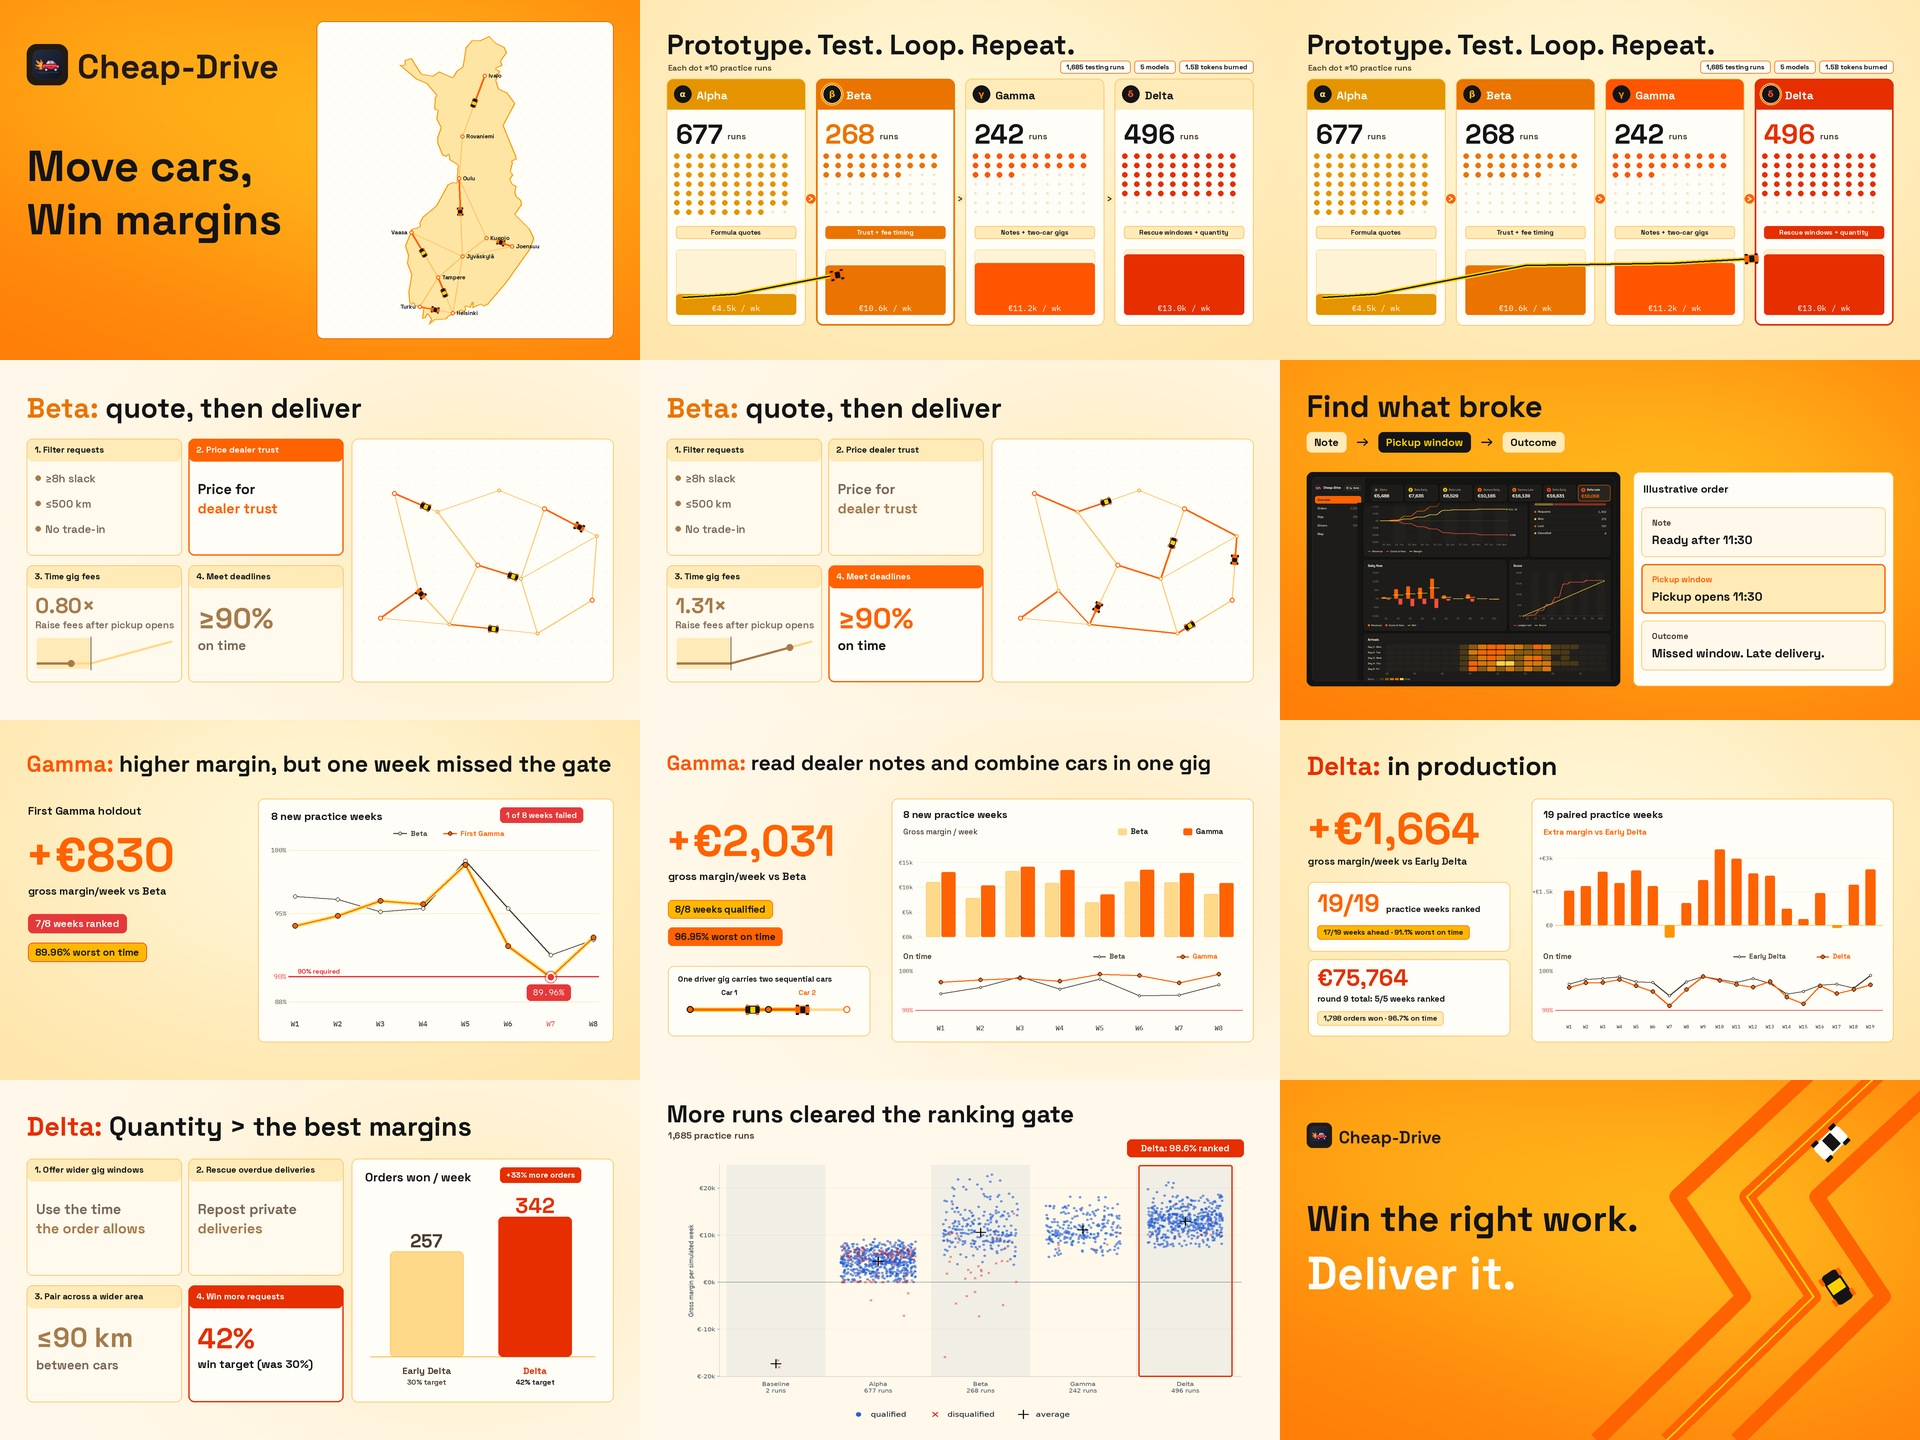
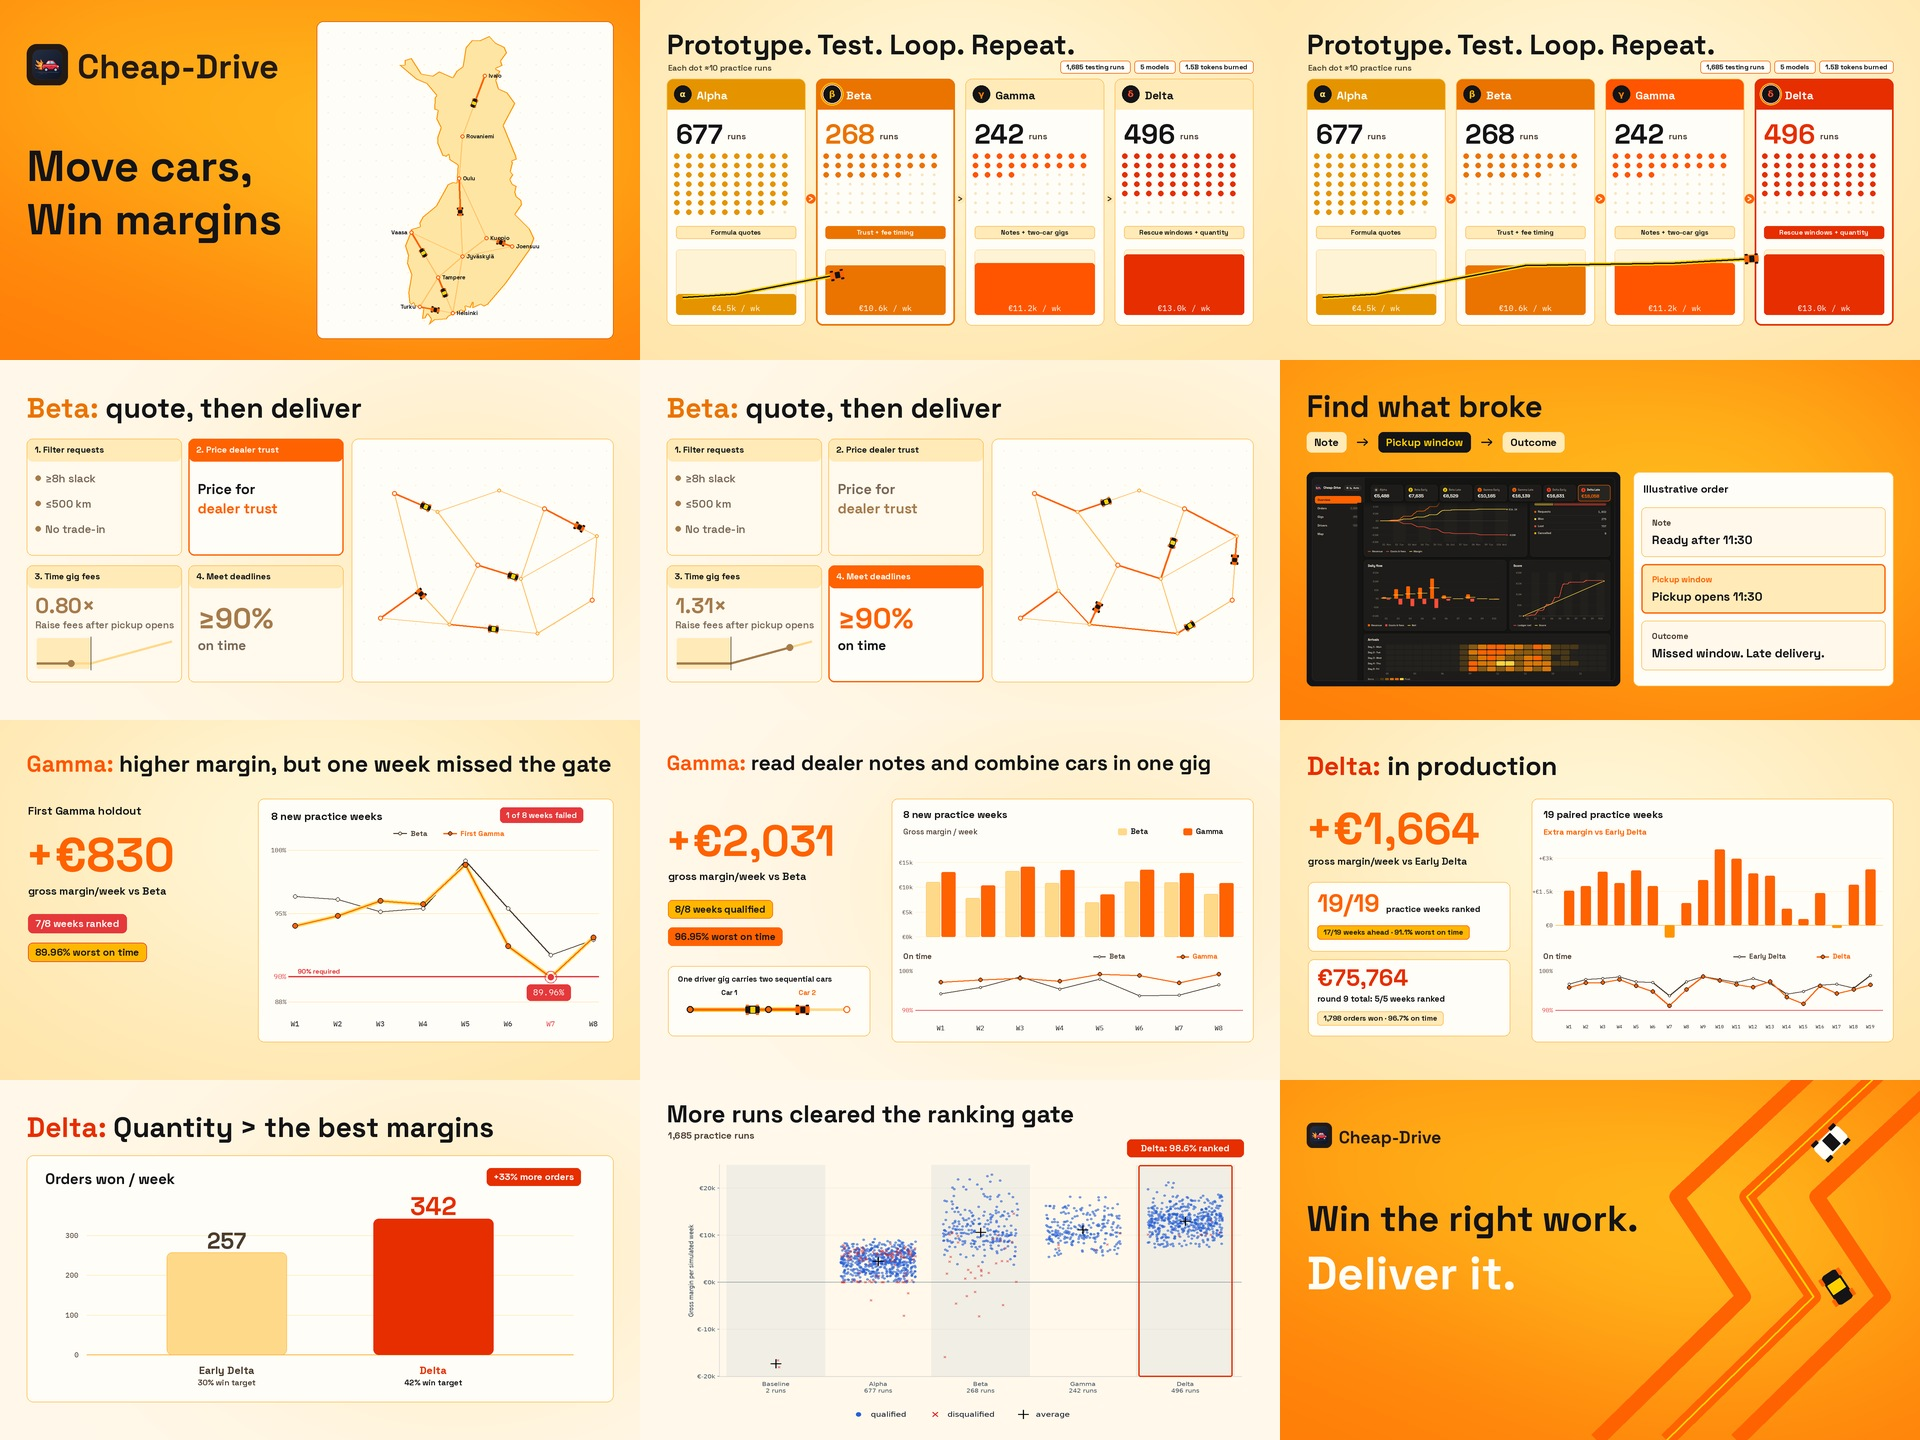
Focus Slide 8 solely on the Orders won / week comparison graph

Changed region(s): [[0.0, 0.7812, 0.3125, 0.9688]]

diff --git a/docs/demo-video/index.html b/docs/demo-video/index.html
@@ -40,8 +40,8 @@
 </head>
 <body>
   <main class="stage">
-    <video controls autoplay loop playsinline preload="auto" poster="poster.png?v=1685ad" src="cheap-drive-demo.mp4?v=1685ad">
-      <track kind="captions" src="captions.vtt?v=1685ad" srclang="en" label="English">
+    <video controls autoplay loop playsinline preload="auto" poster="poster.png?v=1685ae" src="cheap-drive-demo.mp4?v=1685ae">
+      <track kind="captions" src="captions.vtt?v=1685ae" srclang="en" label="English">
     </video>
   </main>
 </body>

diff --git a/docs/demo-video/render.py b/docs/demo-video/render.py
@@ -958,66 +958,42 @@ def delta_production(t):
 
 
 # ---------------------------------------------------------------------------
-# Slide 8 (47–53s): Delta: Quantity > the best margins (clean, minimal layout)
+# Slide 8 (47–53s): Delta: Quantity > the best margins (focused Orders won / week graph)
 # ---------------------------------------------------------------------------
 def delta_iteration(t):
     im = base_canvas('citrus').copy()
-    enter_model_hdr(im, 'Delta:', ' Quantity > the best margins', 80, 88, 80, t, .05, model_color='#E62E00', rest_color=INK, weight=700)
+    enter_model_hdr(im, 'Delta:', ' Quantity > the best margins', 80, 88, 84, t, .05, model_color='#E62E00', rest_color=INK, weight=700)
 
-    step = min(3, int(t / 1.45))
-    cards = [
-        (80, 236, '1. Offer wider gig windows'),
-        (565, 236, '2. Rescue overdue deliveries'),
-        (80, 616, '3. Pair across a wider area'),
-        (565, 616, '4. Win more requests'),
-    ]
-    for i, (x, y, title) in enumerate(cards):
-        active = i == step
-        fg_main = INK if active else '#7A6855'
-        fg_acc = '#E62E00' if active else '#A67B4B'
-        rect(im, (x, y, x + 465, y + 350), CARD if active else '#FFF9EE', '#E62E00' if active else GOLD_LINE, r=18, width=4 if active else 2)
-        rect(im, (x + 2, y + 2, x + 463, y + 68), '#E62E00' if active else APRICOT, r=16)
-        txt(im, title, x + 24, y + 16, 26, CARD if active else INK, 700)
+    rect(im, (80, 226, 1840, 966), CARD, GOLD_LINE, r=20, width=2)
+    txt(im, 'Orders won / week', 136, 268, 44, INK, 700)
+    badge(im, '+33% more orders', 1460, 264, color=CARD, bg='#E62E00', size=28, weight=700)
 
-        if i == 0:
-            txt(im, 'Use the time', x + 28, y + 124, 42, fg_main, 700)
-            txt(im, 'the order allows', x + 28, y + 182, 42, fg_acc, 700)
-        elif i == 1:
-            txt(im, 'Repost private', x + 28, y + 124, 42, fg_main, 700)
-            txt(im, 'deliveries', x + 28, y + 182, 42, fg_acc, 700)
-        elif i == 2:
-            txt(im, '≤90 km', x + 28, y + 104, 82, fg_acc, 700)
-            txt(im, 'between cars', x + 28, y + 214, 38, fg_main, 700)
-        else:
-            txt(im, '42%', x + 28, y + 104, 86, fg_acc, 700)
-            txt(im, 'win target (was 30%)', x + 28, y + 214, 34, fg_main, 700)
+    base_y = 824
+    max_h = 430
+    left_x, right_x = 260, 1720
+    for val in [0, 100, 200, 300]:
+        yy = round(base_y - max_h * (val / 360.0))
+        line(im, [(left_x, yy), (right_x, yy)], GOLD_LINE if val == 0 else APRICOT, 3 if val == 0 else 2)
+        txt(im, f'{val}', left_x - 24, yy, 22, MUTED_INK, mono=True, weight=650, anchor='rm')
 
-    # Right panel: Ultra-clean Orders won / week bar comparison
-    rect(im, (1055, 236, 1840, 966), CARD, GOLD_LINE, r=18, width=2)
-    txt(im, 'Orders won / week', 1095, 268, 36, INK, 700)
-    badge(im, '+33% more orders', 1500, 262, color=CARD, bg='#E62E00', size=24, weight=700)
-
-    base_y = 830
-    max_h = 420
-    line(im, [(1110, base_y), (1785, base_y)], GOLD_LINE, 3)
-
+    bw = 360
     # Left bar: Early Delta (257)
     p1 = ease((t - 0.15) / 0.7)
-    h1 = round(max_h * (257.0 / 342.0) * p1)
-    bx1, bw = 1170, 220
-    rect(im, (bx1, base_y - h1, bx1 + bw, base_y), GOLD_TRACK, outline=GOLD_LINE, r=14, width=2)
-    txt(im, f'{round(257 * p1)}', bx1 + bw / 2, base_y - h1 - 68, 56, MUTED_INK, 700, anchor='ma')
-    txt(im, 'Early Delta', bx1 + bw / 2, base_y + 24, 28, MUTED_INK, 700, anchor='ma')
-    txt(im, '30% target', bx1 + bw / 2, base_y + 62, 22, MUTED_INK, 600, anchor='ma')
+    h1 = round(max_h * (257.0 / 360.0) * p1)
+    bx1 = 500
+    rect(im, (bx1, base_y - h1, bx1 + bw, base_y), GOLD_TRACK, outline=GOLD_LINE, r=16, width=2)
+    txt(im, f'{round(257 * p1)}', bx1 + bw / 2, base_y - h1 - 78, 68, MUTED_INK, 700, anchor='ma')
+    txt(im, 'Early Delta', bx1 + bw / 2, base_y + 26, 32, MUTED_INK, 700, anchor='ma')
+    txt(im, '30% win target', bx1 + bw / 2, base_y + 68, 24, MUTED_INK, 600, anchor='ma')
 
     # Right bar: Delta (342)
     p2 = ease((t - 0.30) / 0.8)
-    h2 = round(max_h * p2)
-    bx2 = 1495
-    rect(im, (bx2, base_y - h2, bx2 + bw, base_y), '#E62E00', r=14)
-    txt(im, f'{round(342 * p2)}', bx2 + bw / 2, base_y - h2 - 74, 64, '#E62E00', 700, anchor='ma')
-    txt(im, 'Delta', bx2 + bw / 2, base_y + 24, 28, '#E62E00', 700, anchor='ma')
-    txt(im, '42% target', bx2 + bw / 2, base_y + 62, 22, INK, 650, anchor='ma')
+    h2 = round(max_h * (342.0 / 360.0) * p2)
+    bx2 = 1120
+    rect(im, (bx2, base_y - h2, bx2 + bw, base_y), '#E62E00', r=16)
+    txt(im, f'{round(342 * p2)}', bx2 + bw / 2, base_y - h2 - 86, 76, '#E62E00', 700, anchor='ma')
+    txt(im, 'Delta', bx2 + bw / 2, base_y + 26, 32, '#E62E00', 700, anchor='ma')
+    txt(im, '42% win target', bx2 + bw / 2, base_y + 68, 24, INK, 650, anchor='ma')
 
     return im
 
